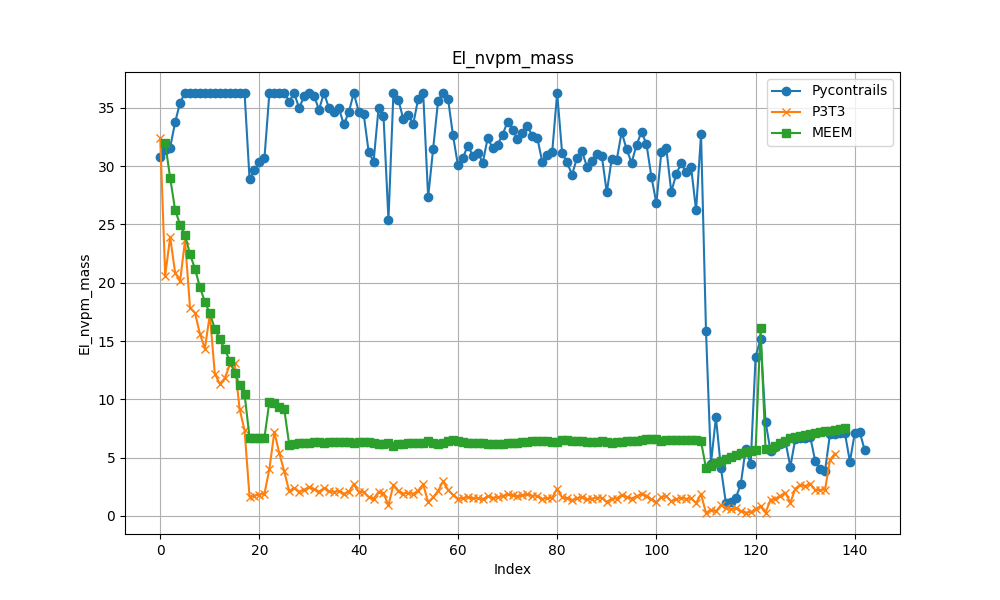
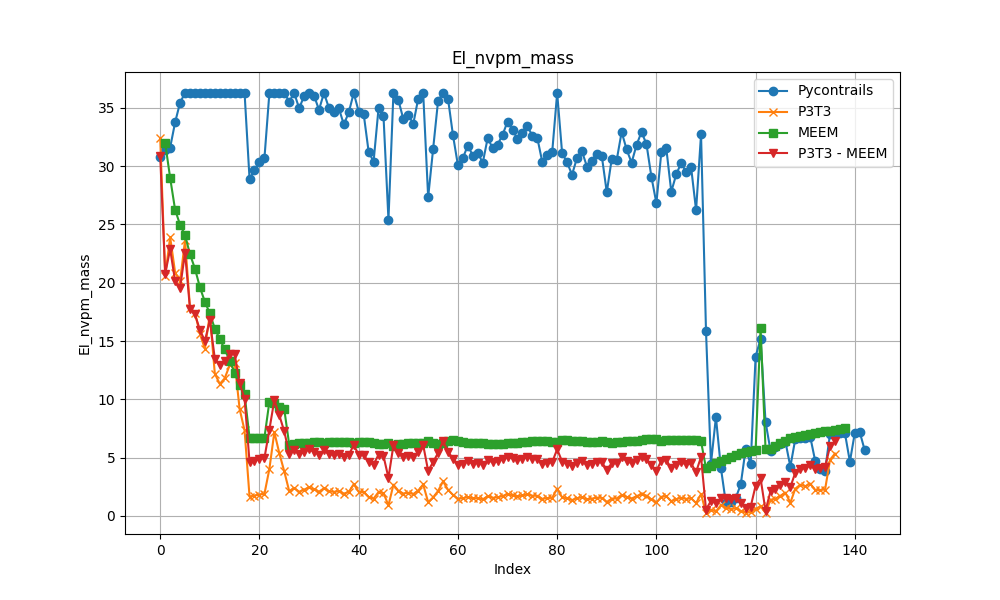
png without markers

diff --git a/verification_emissions.py b/verification_emissions.py
@@ -11,7 +11,7 @@ import matplotlib.colors as mcolors
 import scipy
 from emission_index import p3t3_nox, p3t3_nvpm, p3t3_nvpm_mass, meem_nvpm
 from emission_index import NOx_correlation_de_boer, NOx_correlation_kypriandis_optimized_tf, NOx_correlation_kaiser_optimized_tf
-from emission_index import p3t3_nvpm_meem
+from emission_index import p3t3_nvpm_meem, p3t3_nvpm_meem_mass
 # from piano import altitude_ft_sla
 import sys
 import pickle
@@ -367,6 +367,18 @@ df_gsp['EI_nvpm_number_p3t3_meem'] = df_gsp.apply(
     axis=1
 )
 
+df_gsp['EI_nvpm_mass_p3t3_meem'] = df_gsp.apply(
+    lambda row: p3t3_nvpm_meem_mass(
+        row['PT3'],
+        row['TT3'],
+        row['FAR'],
+        interp_func_far,
+        interp_func_pt3,
+        0
+    ),
+    axis=1
+)
+
 
 """MEEM"""
 print("average cruise altitude", average_cruise_altitude)
@@ -398,18 +410,46 @@ plt.legend()
 plt.grid(True)
 plt.savefig('figures/figures_verification/ei_nox.png', format='png')
 
+# Plot A: EI_NOx
+plt.figure(figsize=(10, 6))
+plt.plot(df_gsp.index, df_gsp['EI_nox_py'], label='Pycontrails', linestyle='-')
+plt.plot(df_gsp.index, df_gsp['EI_nox_p3t3'], label='P3T3', linestyle='-')
+plt.plot(df_gsp.index, df_gsp['EI_nox_boer'], label='Boer', linestyle='-')
+plt.plot(df_gsp.index, df_gsp['EI_nox_kaiser'], label='Kaiser', linestyle='-')
+plt.plot(df_gsp.index, df_gsp['EI_nox_kypriandis'], label='Kypriandis', linestyle='-')
+plt.title('EI_NOx')
+plt.xlabel('Index')
+plt.ylabel('EI_NOx')
+plt.legend()
+plt.grid(True)
+plt.savefig('figures/figures_verification/ei_nox_no_markers.png', format='png')
+
 
 # Plot B: EI_nvpm_mass
 plt.figure(figsize=(10, 6))
 plt.plot(df_gsp.index, df_gsp['EI_nvpm_mass_py'], label='Pycontrails', linestyle='-', marker='o')
 plt.plot(df_gsp.index, df_gsp['EI_nvpm_mass_p3t3'], label='P3T3', linestyle='-', marker='x')
 plt.plot(df_gsp.index, df_gsp['EI_mass_meem'], label='MEEM', linestyle='-', marker='s')
+plt.plot(df_gsp.index, df_gsp['EI_nvpm_mass_p3t3_meem'], label='P3T3 - MEEM', linestyle='-', marker='v')
 plt.title('EI_nvpm_mass')
 plt.xlabel('Index')
 plt.ylabel('EI_nvpm_mass')
 plt.legend()
 plt.grid(True)
 plt.savefig('figures/figures_verification/ei_nvpm_mass.png', format='png')
+
+# Plot B: EI_nvpm_mass
+plt.figure(figsize=(10, 6))
+plt.plot(df_gsp.index, df_gsp['EI_nvpm_mass_py'], label='Pycontrails', linestyle='-')
+plt.plot(df_gsp.index, df_gsp['EI_nvpm_mass_p3t3'], label='P3T3', linestyle='-')
+plt.plot(df_gsp.index, df_gsp['EI_mass_meem'], label='MEEM', linestyle='-')
+plt.plot(df_gsp.index, df_gsp['EI_nvpm_mass_p3t3_meem'], label='P3T3 - MEEM', linestyle='-')
+plt.title('EI_nvpm_mass')
+plt.xlabel('Index')
+plt.ylabel('EI_nvpm_mass')
+plt.legend()
+plt.grid(True)
+plt.savefig('figures/figures_verification/ei_nvpm_mass_no_markers.png', format='png')
 
 # Plot C: EI_nvpm_number
 plt.figure(figsize=(10, 6))
@@ -423,6 +463,18 @@ plt.ylabel('EI_nvpm_number')
 plt.legend()
 plt.grid(True)
 plt.savefig('figures/figures_verification/ei_nvpm_number.png', format='png')
+
+plt.figure(figsize=(10, 6))
+plt.plot(df_gsp.index, df_gsp['EI_nvpm_number_py'], label='Pycontrails', linestyle='-')
+plt.plot(df_gsp.index, df_gsp['EI_nvpm_number_p3t3'], label='P3T3', linestyle='-')
+plt.plot(df_gsp.index, df_gsp['EI_number_meem'], label='MEEM', linestyle='-')
+plt.plot(df_gsp.index, df_gsp['EI_nvpm_number_p3t3_meem'], label='P3T3 - MEEM', linestyle='-')
+plt.title('EI_nvpm_number')
+plt.xlabel('Index')
+plt.ylabel('EI_nvpm_number')
+plt.legend()
+plt.grid(True)
+plt.savefig('figures/figures_verification/ei_nvpm_number_no_markers.png', format='png')
 
 # # Plot D: EI_nvpm_mass
 # plt.figure(figsize=(10, 6))

diff --git a/emission_index.py b/emission_index.py
@@ -625,20 +625,52 @@ def p3t3_nvpm_meem(PT3_inflight, TT3_inflight, FAR_inflight, interp_func_far, in
 
     result = ei_nvpm_mass * (ei_nvpm_number_sls/ ei_nvpm_mass_sls)
     print(result)
-    # elif saf == 20:
-    #     ei_nvpm_mass_sls = (-0.5444 * t ** 6) + (-4.4315 * t ** 5) - (5.3065 * t ** 4) + (8.8020 * t ** 3) + (
-    #                 23.0131 * t ** 2) + (12.3004 * t) + 2.2554
-    #     # print(ei_nvpm_mass_sls)
-    #     ei_nvpm_mass = ei_nvpm_mass_sls * (PT3_inflight / pt3_sls) ** 1.35 * (FAR_inflight / far_sls) ** 2.5
-    #     # print(ei_nvpm_mass)
-    #     v = (-3.9951 * np.exp(1) + 12.2380) * np.exp(-1.2642 * t) * 10 ** 14
-    #     result = v * ei_nvpm_mass
-    # elif saf == 100:
-    #     ei_nvpm_mass_sls = (0.3255 * t ** 6) + (-3.6254 * t ** 5) - (6.9934 * t ** 4) + (8.2737 * t ** 3) + (
-    #             22.5514 * t ** 2) + (10.9926 * t) + 1.7097
-    #     # print(ei_nvpm_mass_sls)
-    #     ei_nvpm_mass = ei_nvpm_mass_sls * (PT3_inflight / pt3_sls) ** 1.35 * (FAR_inflight / far_sls) ** 2.5
-    #     # print(ei_nvpm_mass)
-    #     v = (-3.9663 * np.exp(1) + 12.2486) * np.exp(-1.2962 * t) * 10 ** 14
-    #     result = v * ei_nvpm_mass
+
+    return result
+
+
+def p3t3_nvpm_meem_mass(PT3_inflight, TT3_inflight, FAR_inflight, interp_func_far, interp_func_pt3, saf):
+    """
+    p3t3 method to predict ei_nox for the state of the art and 2035 PW1127G engine
+    can be used for both saf and kerosene, make sure to implement the correct interp_func
+
+    Args:
+        PT3_inflight (float): Inflight PT3 value.
+        TT3_inflight (float): Inflight TT3 value.
+        FAR_inflight (float): Inflight FAR value.
+        interp_func_far (function): Interpolation function far sls graph.
+        interp_func_pt3 (function): Interpolation function pt3 sls graph.
+
+    Returns:
+        float: EI_nvpm at this point in flight
+    """
+
+    far_sls = interp_func_far(TT3_inflight)
+    pt3_sls = interp_func_pt3(TT3_inflight)
+    # t = (TT3_inflight-696.4)/154.5
+    p_amb = 1.01325
+    operating_pr_icao = 31.7
+    F_gr_F_rated = ((pt3_sls / p_amb) - 1) / (operating_pr_icao - 1)
+    if saf == 0:
+        EI_mass_icao_sl = [7.8, 0.6, 26.3, 36.3]
+        # EI_number_icao_sl = [5.78e15, 3.85e14, 1.60e15, 1.45e15]
+    elif saf == 20:
+        EI_mass_icao_sl = [5.1, 0.43, 23.4, 33.9]
+        # EI_number_icao_sl = [3.93e15, 2.9e14, 1.48e15, 1.41e15]
+    elif saf == 100:
+        EI_mass_icao_sl = [2.7, 0.29, 20.9, 31.9]
+        # EI_number_icao_sl = [2.37e15, 2.1e14, 1.39e15, 1.38e15]
+
+    thrust_setting_icao = [0.07, 0.3, 0.85, 1]
+    ei_nvpm_mass_sls = np.interp(F_gr_F_rated, thrust_setting_icao, EI_mass_icao_sl)
+    # ei_nvpm_number_sls = np.interp(F_gr_F_rated, thrust_setting_icao, EI_number_icao_sl)
+
+    # ei_nvpm_mass_sls = (-1.4110*t**6) + (-5.3007*t**5) - (3.5961*t**4) + (9.2888*t**3) + (23.6098*t**2) + (13.9142*t) + 2.9213
+    # print(ei_nvpm_mass_sls)
+    result = ei_nvpm_mass_sls * (PT3_inflight / pt3_sls) ** 1.35 * (FAR_inflight / far_sls) ** 2.5
+    # ei_nvpm_mass = ei_nvpm_mass_sls * (PT3_inflight / pt3_sls) ** 1.35 * (1.1) ** 2.5
+
+    # result = ei_nvpm_mass * (ei_nvpm_number_sls / ei_nvpm_mass_sls)
+    # print(result)
+
     return result
